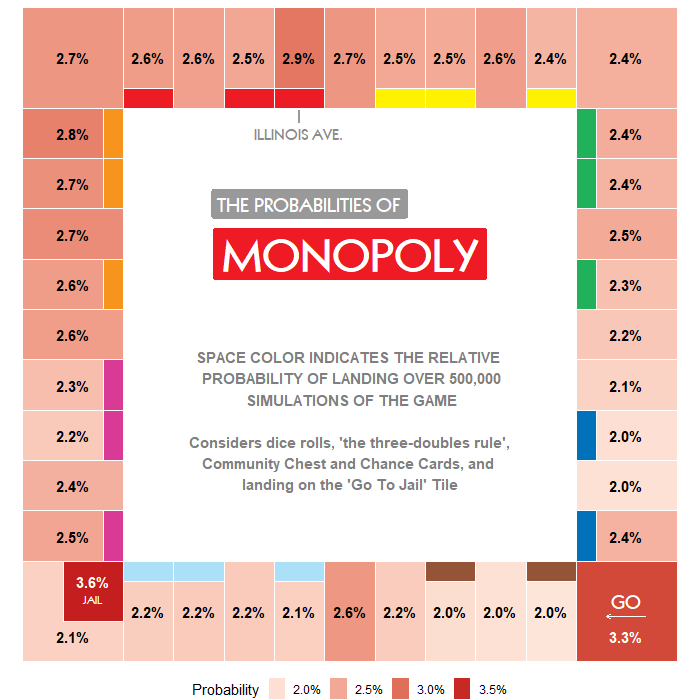
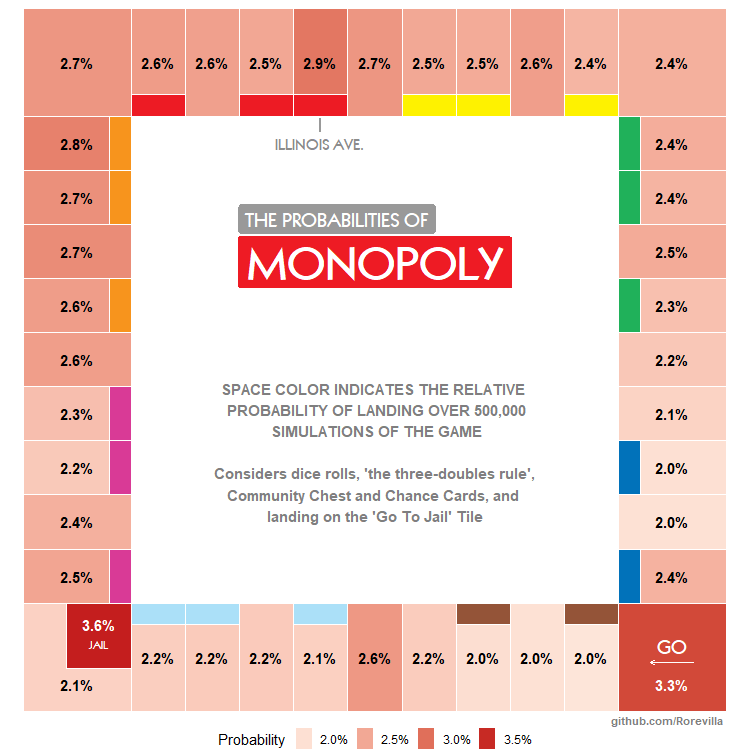
Added vis

diff --git a/README.md b/README.md
@@ -1,2 +1,10 @@
-# monopoly
-Monopoly stats and visualizations
+### Visualizing the probability of landing in each square in Monopoly
+
+
+In order to calculate the probabilities, I wrote an OOP Python script that generates random games, taking into consideration dice rolls, landing on "special" spaces and the doubles rule. The simulator obtains all the spaces where a player lands on on a game, including when he is rerouted. For example, if he lands on the Go To Jail tile, both the landing tile and the Jail tile are added to the list.
+
+After the simulation was complete, I created a visualization on R:
+
+<p align="center">
+  <img src="monopoly_probabilities.png" />
+</p>
